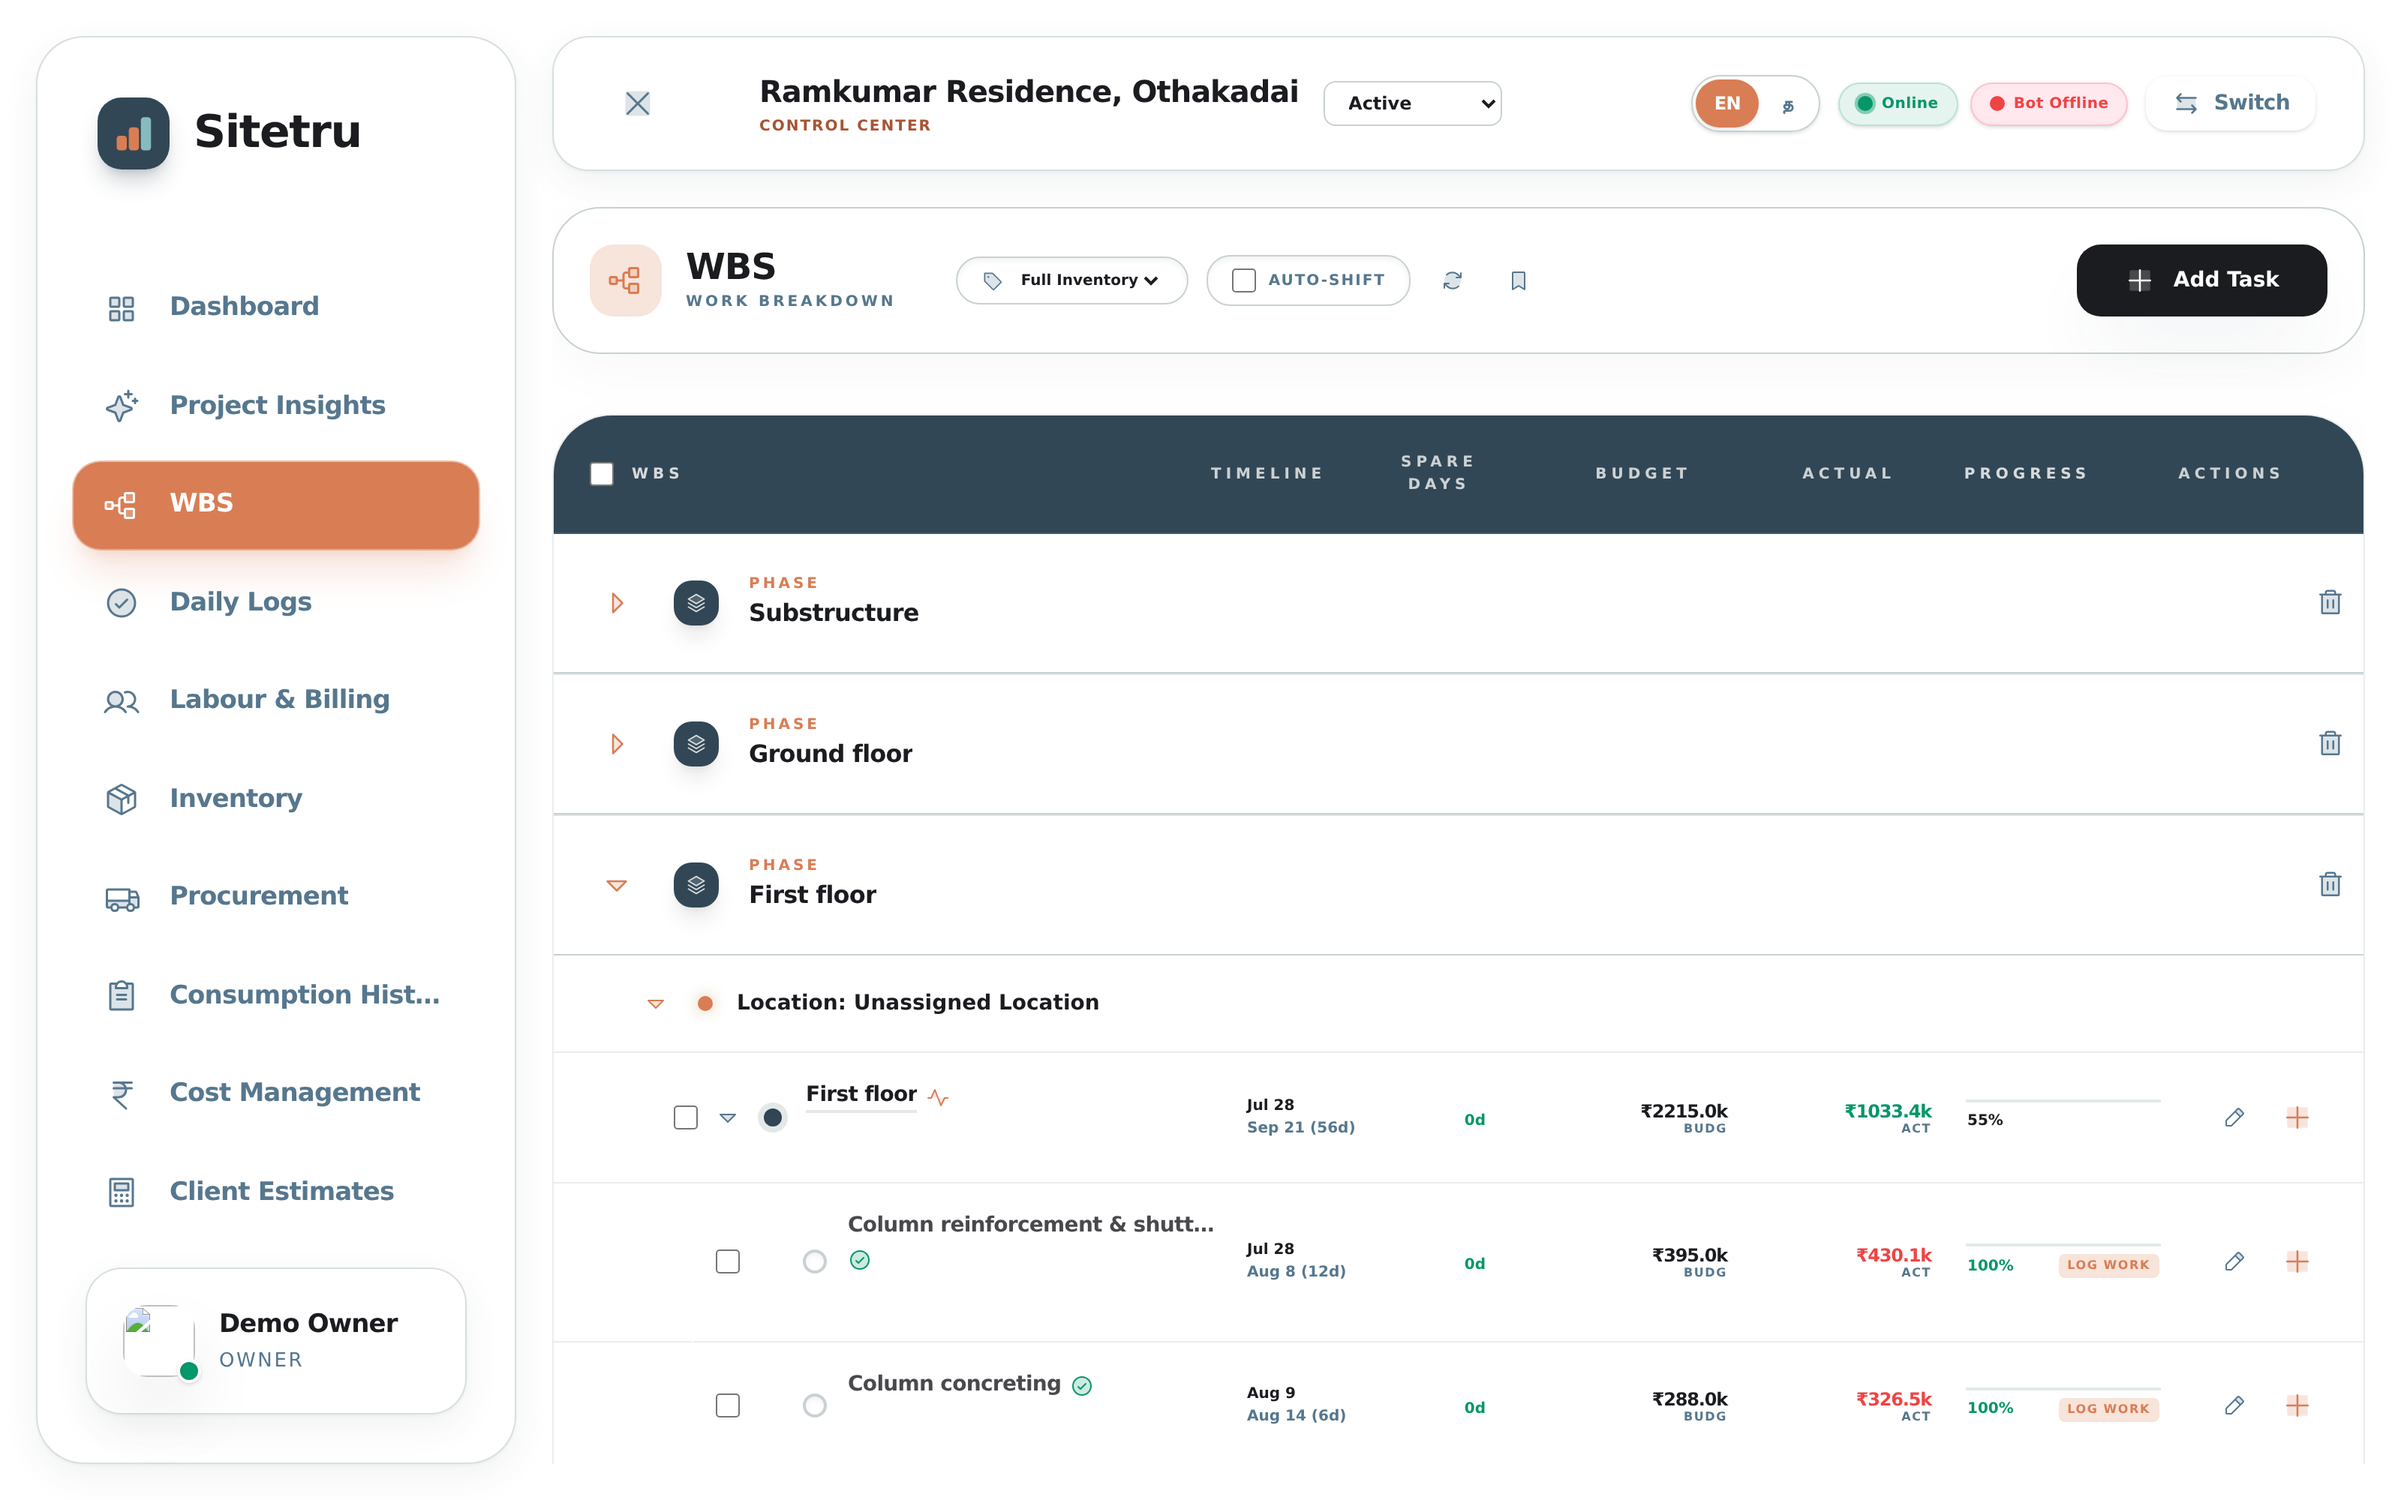
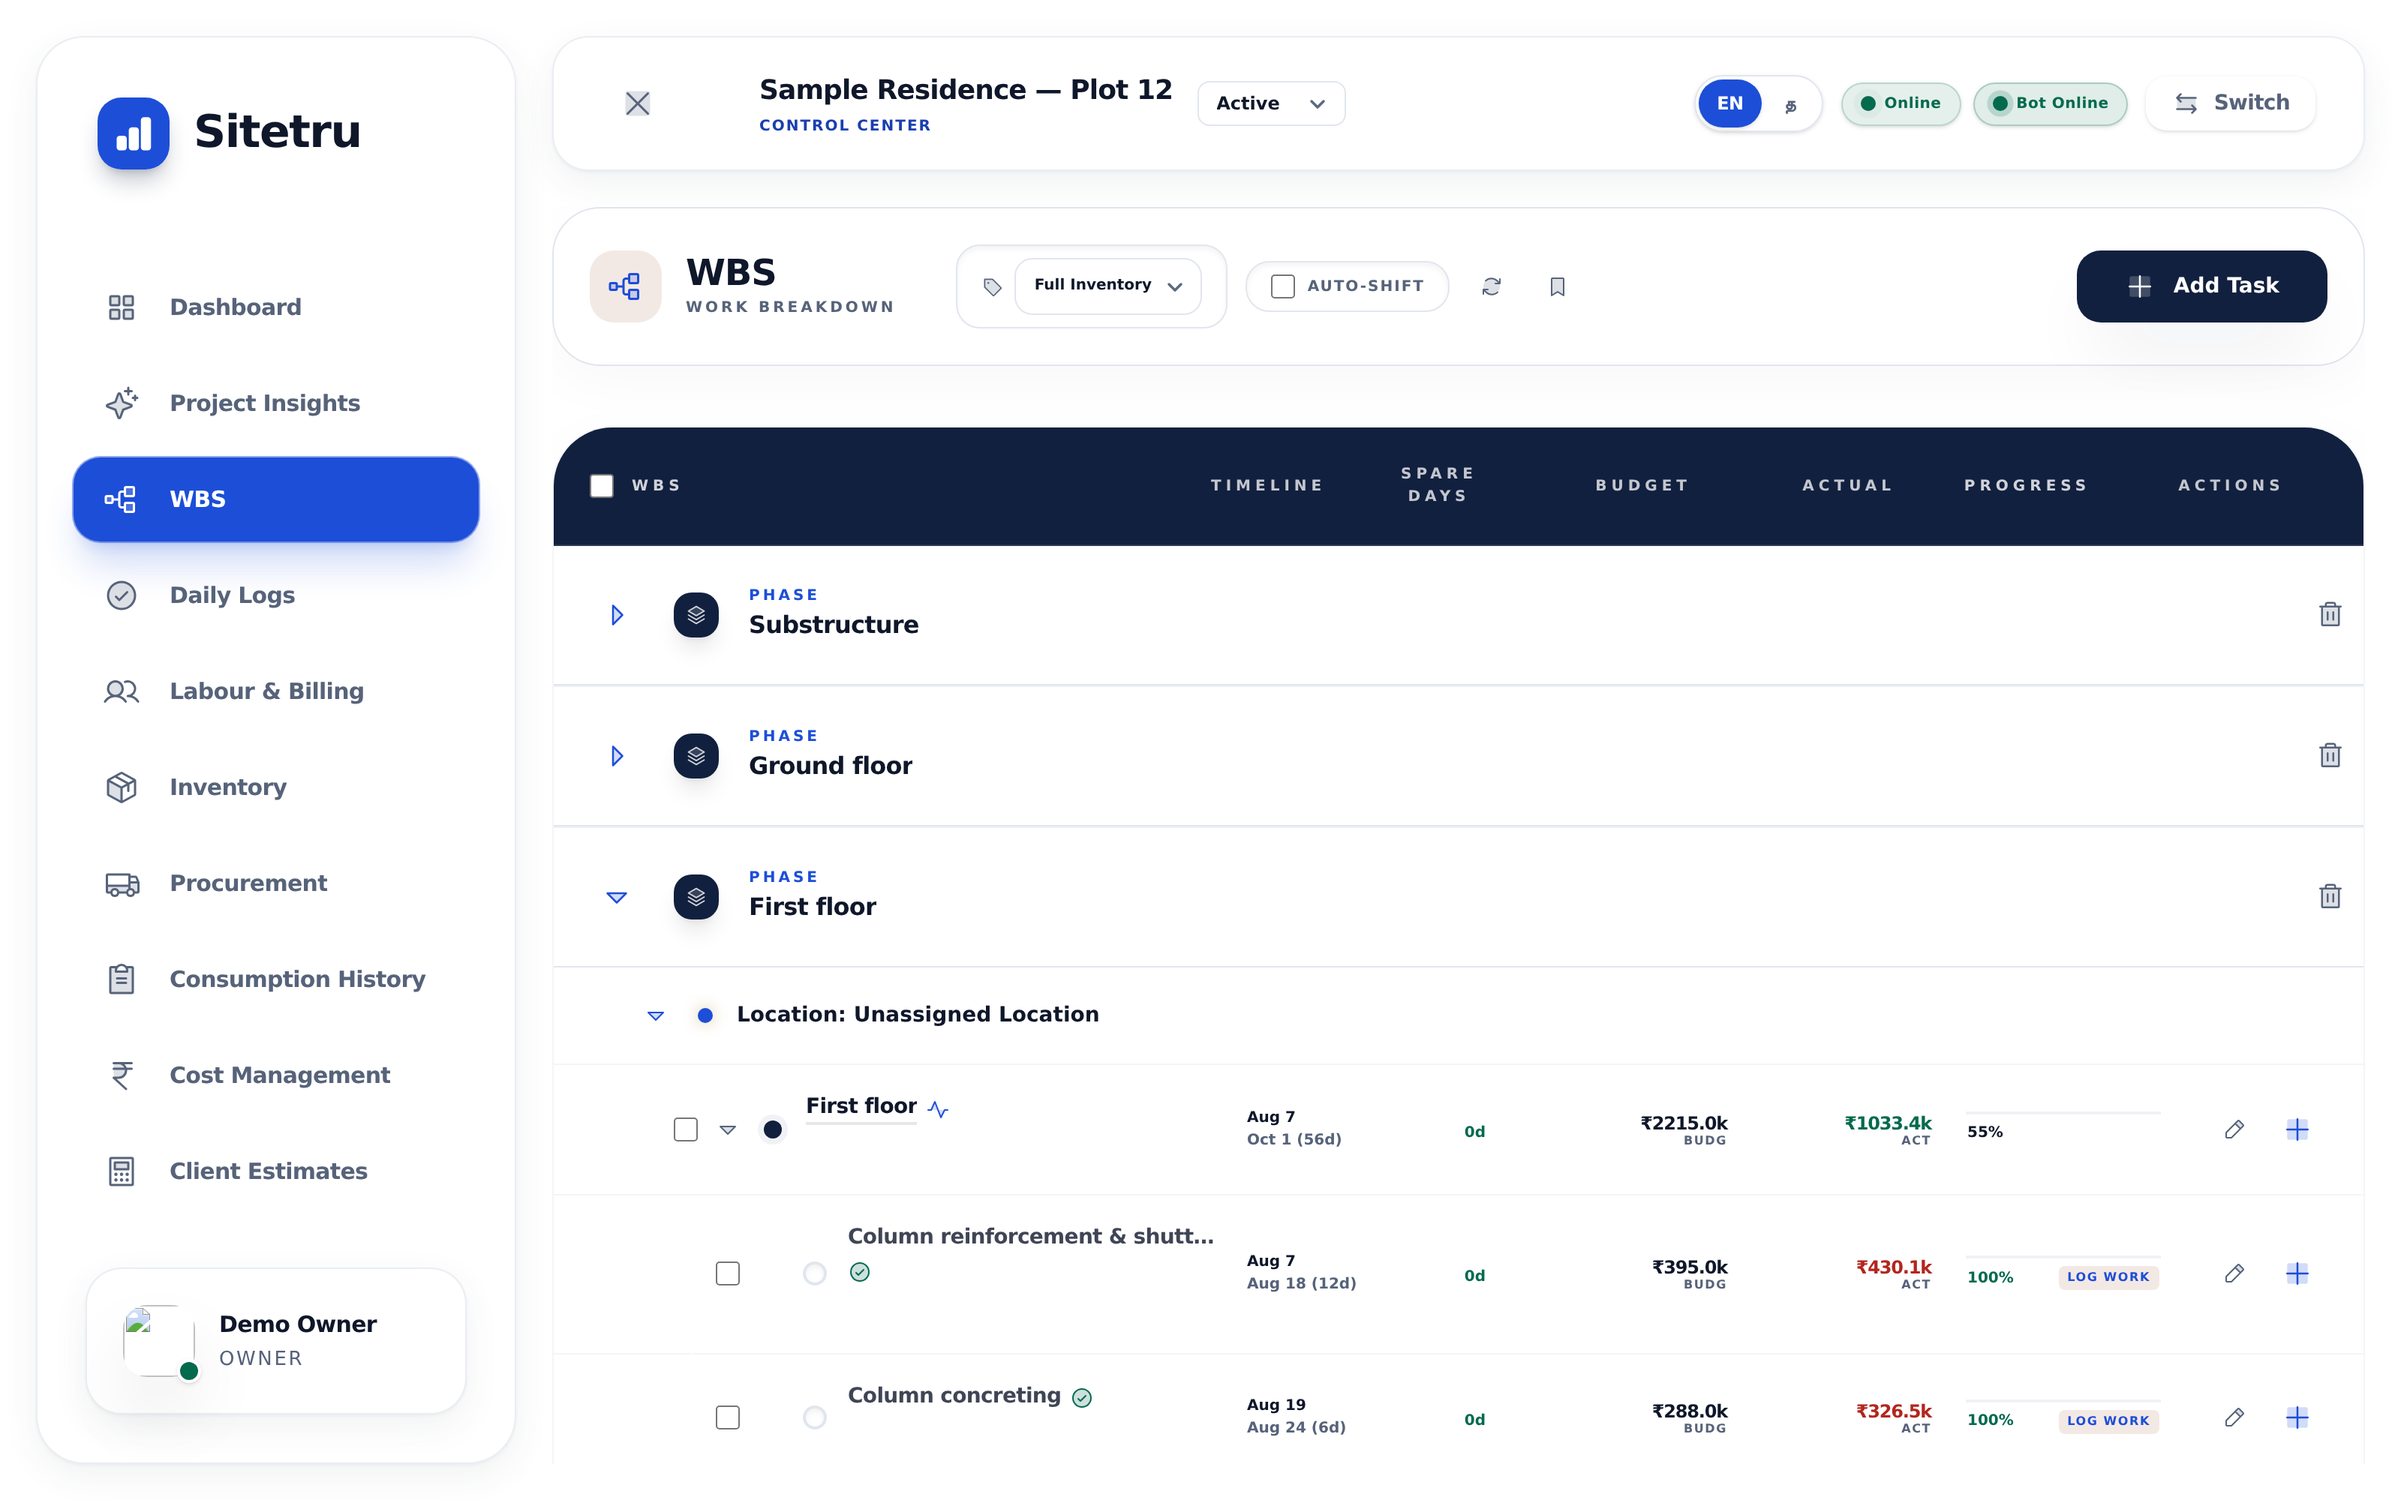
Use placeholder project names in the demo, landing page and marketing assets
The demo fixtures named a project "Ramkumar Residence, Othakadai" — a
person's name and a real Madurai locality — and it was on show in three
public places: the /demo app, the landing page's app preview, and the six
screenshots the launch videos and walkthrough are built from.

Projects are now "Sample Residence — Plot 12", "Sample Commercial Block"
and "Sample Villa — Phase 2". The insights narrative that named the project
in prose follows.

The same real localities also sat in vendor addresses — Othakadai, Anna
Nagar, Thirunagar, K.K. Nagar, Melur Road, all "…, Madurai" — and those
show on the Procurement screen, which is one of the captured screens. They
are now Sample Area 1-5.

The landing page's app-preview mockup says "Your Project" rather than a
fixture name. Two reasons: it is marketing rather than the demo, so it does
not need one, and reusing the fixture name made verify:no-demo fail
correctly — "Sample Residence" then appeared in the production bundle as
legitimate marketing copy, indistinguishable from a fixture leak.

verify:no-demo now carries the new names as needles and keeps the retired
ones, so the old strings are caught if they are ever pasted back.

## The capture script was broken

Regenerating the screenshots failed: the guided tour's full-screen overlay
intercepts every click the script makes. record.mjs was fixed for this when
the tour shipped; capture-screens.mjs never was, which is almost certainly
[…]

diff --git a/src/demo/demoData.ts b/src/demo/demoData.ts
@@ -30,7 +30,7 @@ export const demoProjects = [
   {
     id: DEMO_PROJECT_ID,
     orgId: DEMO_ORG_ID,
-    name: "Ramkumar Residence, Othakadai",
+    name: "Sample Residence — Plot 12",
     description: "G+2 residential building · 3,200 sq ft · Madurai",
     status: "Active",
     startDate: d(-150),
@@ -41,7 +41,7 @@ export const demoProjects = [
   {
     id: "demo-project-2",
     orgId: DEMO_ORG_ID,
-    name: "Anna Nagar Commercial Block",
+    name: "Sample Commercial Block",
     description: "Ground + 3 retail and office block",
     status: "Active",
     startDate: d(-60),
@@ -51,7 +51,7 @@ export const demoProjects = [
   {
     id: "demo-project-3",
     orgId: DEMO_ORG_ID,
-    name: "Thirunagar Villa",
+    name: "Sample Villa — Phase 2",
     description: "Independent villa with landscaping",
     status: "Planning",
     startDate: d(20),
@@ -124,11 +124,11 @@ export const demoTasks = [
 
 // --- Parties ---------------------------------------------------------------
 export const demoVendors = [
-  { id: "v1", projectId: DEMO_PROJECT_ID, name: "Lakshmi Steels", type: "Material", contactPerson: "R. Senthil", phone: "+91 98420 11223", gstin: "33AABCL1234M1Z5", address: "Melur Road, Madurai", outstandingBalance: 284500 },
-  { id: "v2", projectId: DEMO_PROJECT_ID, name: "Sri Balaji Cements", type: "Material", contactPerson: "M. Karthik", phone: "+91 94430 55671", gstin: "33AAFCS9876P1ZQ", address: "Anna Nagar, Madurai", outstandingBalance: 96200 },
-  { id: "v3", projectId: DEMO_PROJECT_ID, name: "Murugan Blue Metals", type: "Material", contactPerson: "S. Pandi", phone: "+91 99445 78210", address: "Othakadai, Madurai", outstandingBalance: 0 },
-  { id: "v4", projectId: DEMO_PROJECT_ID, name: "Selvam Labour Contractor", type: "Labor", contactPerson: "K. Selvam", phone: "+91 90031 44526", address: "Thirunagar, Madurai", outstandingBalance: 142000 },
-  { id: "v5", projectId: DEMO_PROJECT_ID, name: "Vinayaga Electricals", type: "Both", contactPerson: "A. Ganesh", phone: "+91 98651 33907", gstin: "33AACFV5432N1Z8", address: "K.K. Nagar, Madurai", outstandingBalance: 38400 },
+  { id: "v1", projectId: DEMO_PROJECT_ID, name: "Lakshmi Steels", type: "Material", contactPerson: "R. Senthil", phone: "+91 98420 11223", gstin: "33AABCL1234M1Z5", address: "Sample Area 3", outstandingBalance: 284500 },
+  { id: "v2", projectId: DEMO_PROJECT_ID, name: "Sri Balaji Cements", type: "Material", contactPerson: "M. Karthik", phone: "+91 94430 55671", gstin: "33AAFCS9876P1ZQ", address: "Sample Area 1", outstandingBalance: 96200 },
+  { id: "v3", projectId: DEMO_PROJECT_ID, name: "Murugan Blue Metals", type: "Material", contactPerson: "S. Pandi", phone: "+91 99445 78210", address: "Sample Area 4", outstandingBalance: 0 },
+  { id: "v4", projectId: DEMO_PROJECT_ID, name: "Selvam Labour Contractor", type: "Labor", contactPerson: "K. Selvam", phone: "+91 90031 44526", address: "Sample Area 5", outstandingBalance: 142000 },
+  { id: "v5", projectId: DEMO_PROJECT_ID, name: "Vinayaga Electricals", type: "Both", contactPerson: "A. Ganesh", phone: "+91 98651 33907", gstin: "33AACFV5432N1Z8", address: "Sample Area 2", outstandingBalance: 38400 },
 ];
 
 // --- Stock -----------------------------------------------------------------
@@ -276,7 +276,7 @@ export const demoInsights = {
   model: "demo",
   insights: {
     executiveDigest:
-      "Ramkumar Residence is **43% built** with **50% of the budget drawn**, so spend is running a little ahead of progress but stays inside the sanctioned amount.\n\n" +
+      "Sample Residence is **43% built** with **50% of the budget drawn**, so spend is running a little ahead of progress but stays inside the sanctioned amount.\n\n" +
       "- Substructure and ground floor are closed out and paid for.\n" +
       "- First floor blockwork is the active front at 65%, with 22 workers on site yesterday.\n" +
       "- Labour is the one head running over: **₹9.06L spent against ₹3.34L planned**.\n" +

diff --git a/src/pages/LandingPage.tsx b/src/pages/LandingPage.tsx
@@ -374,7 +374,7 @@ export const LandingPage: React.FC<LandingPageProps> = ({ isLoggingIn, onLogin, 
           <div className="soft-card rounded-[28px] p-5 md:p-6">
             <div className="flex items-center justify-between mb-5">
               <div>
-                <p className="font-display font-bold text-lg tracking-tight">Ramkumar-Othakadai</p>
+                <p className="font-display font-bold text-lg tracking-tight">Your Project</p>
                 <p className="text-[10px] font-black uppercase tracking-widest text-primary">Control Center</p>
               </div>
               <span className="text-[10px] font-black uppercase tracking-widest text-success bg-success/12 px-3 py-1.5 rounded-full">Active</span>
